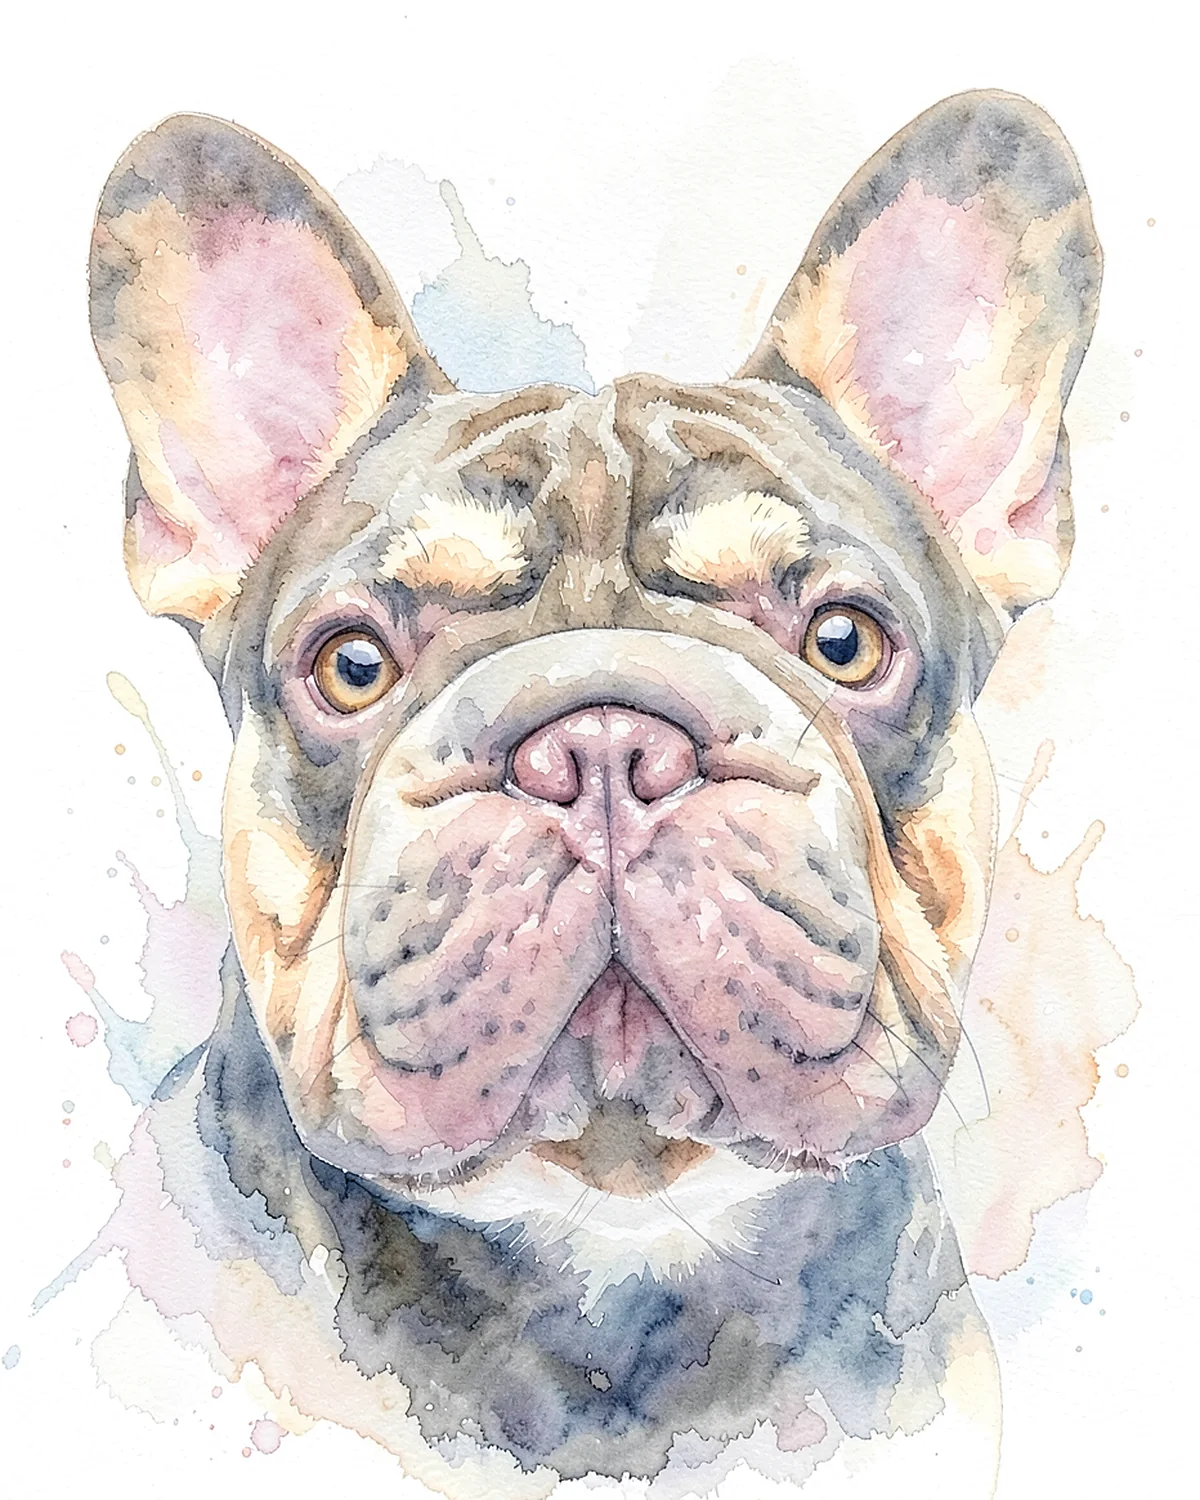
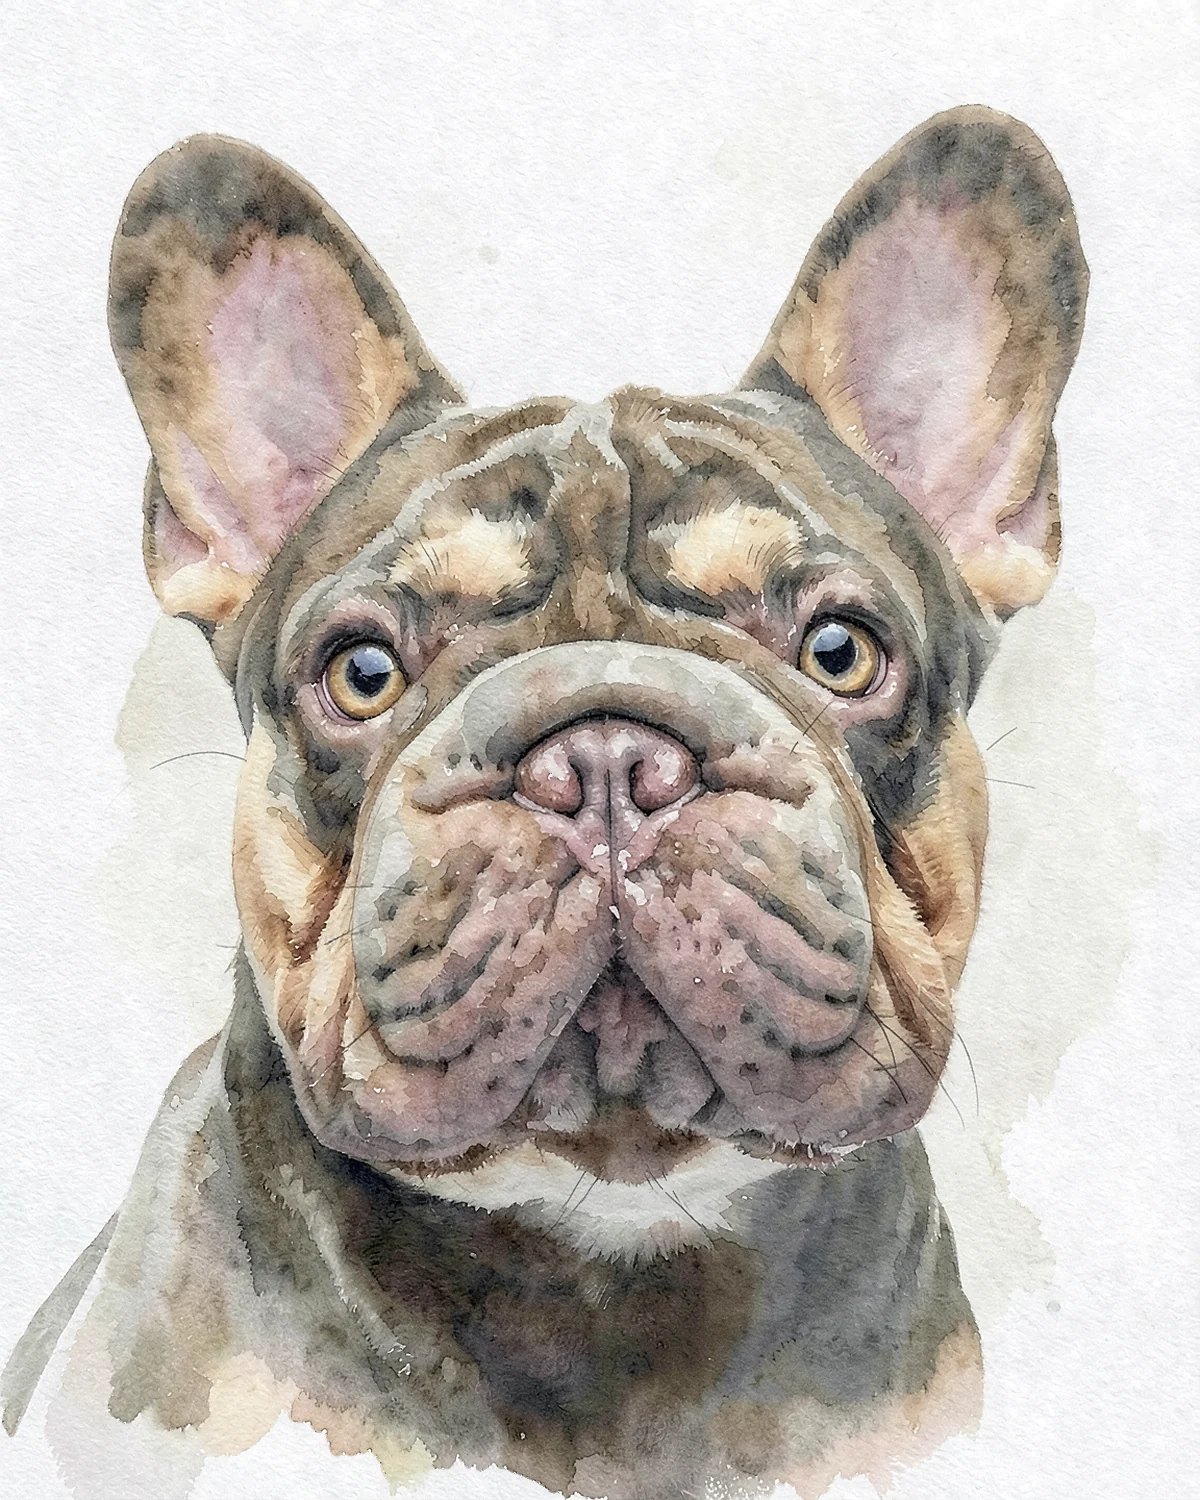
Samples: before/after pairs and gallery 2-6 in the house style; storybook retake; OG image from the new royal; CREDITS
holiday.webp now uses cavalier.jpg and gallery-1.webp golden-retriever.jpg (same dog as pair-1 and the
dog-and-portrait campaign shot); style/dog labels in samples.ts are unchanged.

Claude-Session: https://claude.ai/code/session_01Q1G9K9iUNWePoTgYQBX8an

diff --git a/web/public/samples/CREDITS.md b/web/public/samples/CREDITS.md
@@ -2,30 +2,33 @@
 
 The images in this folder are example portraits made by our studio to show each style. They are not
 customer orders and not customer reviews. Each one is an AI render made from a real dog photo
-(listed below), then reviewed by a person before it was published (likeness, anatomy, no garbled
+(listed below), then reviewed by a person at 100% before it was published (likeness, anatomy, no garbled
 text or jewellery, no watermarks).
 
-## How they were made (current pipeline, Oct 14)
+## How they were made (current set, Oct 18: house-style redesign)
 
 - **Model:** FLUX.2 [klein] 4B (`black-forest-labs/FLUX.2-klein-4B`), run locally on CPU with Hugging Face
-  `diffusers` (`Flux2KleinPipeline`, bf16), reference-image editing: the real photo is passed as the
-  reference image and the style prompt asks for a portrait of *this exact dog*. 4 steps, guidance 1.0,
-  rendered natively at 960×1200 (reference photo at 640×800).
+  `diffusers` (`Flux2KleinPipeline`, bf16). Reference-image editing: the real photo is passed as the
+  reference image, and the style prompt asks for a portrait of *this exact dog*. 4 steps, guidance 1.0,
+  rendered natively at 1152×1440 (reference photo at 640×800).
   - License: **Apache-2.0** (https://huggingface.co/black-forest-labs/FLUX.2-klein-4B). Commercial use of
-    the model and of its outputs is permitted. The bundled VAE (`vae/` in the same repository) is under
-    the same Apache-2.0 license.
-- **Text encoder:** Qwen3-4B (`Qwen/Qwen3-4B`, as bundled in the FLUX.2-klein-4B repository), **Apache-2.0**
-  (https://huggingface.co/Qwen/Qwen3-4B).
-- **Retouching:** on royal.webp and pair-1-after.webp the medallion was re-rendered with the same model's inpainting pipeline
-  (`Flux2KleinInpaintPipeline`, masked to the pendant only) to replace engraved pseudo-lettering with a plain gold pendant. On oil-classic.webp a faint painted pseudo-signature in the lower-left corner was removed by cloning
-  the adjacent background (we never present these as signed or hand-painted).
-- **Finishing:** cropped 1.5% at the edges (removes the faint painted canvas edge), Lanczos resize to
-  1200×1500, light unsharp mask, WebP quality 84 (Pillow).
-- Style prompts are adapted from `STYLES[].prompt` in `web/src/lib/catalog.ts`.
+    the model and of its outputs is permitted. The bundled VAE is under the same license.
+- **Text encoder:** Qwen3-4B (`Qwen/Qwen3-4B`, as bundled in the FLUX.2-klein-4B repository), **Apache-2.0**.
+- **Prompts:** one shared house style (museum surfaces, natural canine anatomy, one soft light, one restrained
+  palette, no text). The exact prompt used for each style is in `docs/art-direction.md`.
+- **Retouching:**
+  - mid-century.webp: the open mouth was re-rendered closed with the same model's inpainting pipeline
+    (`Flux2KleinInpaintPipeline`, masked to the muzzle only).
+  - pop-art.webp: a stray dark shape below the jaw (a malformed tongue) was painted out with the plain
+    background ink.
+  - charcoal.webp: the reference photo was first scaled down and seated on its own extended backdrop, to leave
+    headroom.
+- **Finishing:** up to 1.2% edge trim (removes faint painted canvas edges), centre crop to 4:5, Lanczos resize to
+  1200×1500, light unsharp mask. Then a very light surface pass: linen weave for oils, paper tooth for paper media.
+  Tiny isolated specks are removed, and near-white trim on The Royal is warmed to ivory. WebP quality 80–86
+  (Pillow), each file under 400 KB.
 
-All files in this folder now come from this pipeline (the earlier DreamShaper 8 / SD 1.5 set was fully
-replaced on Oct 14). For gallery-4.webp, fine-line.webp and astronaut.webp the reference photo was first
-scaled down and seated on its own extended backdrop, to leave headroom in the composition.
+We never present these as hand-painted or signed. "Made by our AI artist, finished and checked by our team."
 
 ## Source photos
 
@@ -33,33 +36,37 @@ All source photos are from Unsplash and used under the [Unsplash License](https:
 which allows free commercial use and modification without attribution. We credit the photographers
 anyway. None are Unsplash+ photos. Local copies (4:5 crops) live in `web/scripts/sample-sources/`.
 
-| Sample file(s) | Style | Dog | Source photo | Photographer | Unsplash page | Pipeline |
-|---|---|---|---|---|---|---|
-| royal.webp | The Royal | Cavalier King Charles Spaniel | cavalier-2.jpg | Tracy Anderson | https://unsplash.com/photos/OktYfwY5ZQI | FLUX.2 klein |
-| pair-3-before.webp (photo), pair-3-after.webp | The Admiral | Beagle | beagle.jpg | Nathanaël Desmeules | https://unsplash.com/photos/527_3nFNAPo | FLUX.2 klein |
-| admiral.webp | The Admiral | Labrador Retriever | labrador-2.jpg | Not identified yet (free Unsplash CDN image) | https://images.unsplash.com/photo-1761797732084-eed42f058516 | FLUX.2 klein |
-| oil-classic.webp | Old Master | Border Collie | border-collie.jpg | Pauline Loroy | https://unsplash.com/photos/XH8A0bvQ7iE | FLUX.2 klein |
-| pair-2-before.webp (photo), pair-2-after.webp | Watercolor | French Bulldog | french-bulldog.jpg | Eric Tan | https://unsplash.com/photos/p6qtH9kqjt8 | FLUX.2 klein |
-| watercolor.webp | Watercolor | Beagle (tricolour hound) | beagle-2.jpg | Jabez Rodarte | https://unsplash.com/photos/rxFw2zAaUi0 | FLUX.2 klein |
-| gallery-2.webp | Pop Art | French Bulldog | french-bulldog-sitting.jpg | Eric Tan | https://unsplash.com/photos/WqveMpe3QTA | FLUX.2 klein |
-| fine-line.webp | Fine Line | French Bulldog | french-bulldog.jpg | Eric Tan | https://unsplash.com/photos/p6qtH9kqjt8 | FLUX.2 klein |
-| pop-art.webp | Pop Art | Dachshund | dachshund.jpg | Alexandre Daoust | https://unsplash.com/photos/DoMqElrLS5M | FLUX.2 klein |
-| storybook.webp | Storybook | Poodle / Doodle puppy | doodle-puppy.jpg | Erick Lee Hodge | https://unsplash.com/photos/U8pgck1dgtQ | FLUX.2 klein |
-| botanical.webp | Botanical | Cavapoo | cavapoo.jpg | Leiada Krözjhen | https://unsplash.com/photos/7lahRWgD2qM | FLUX.2 klein |
-| astronaut.webp | Space Cadet | Siberian Husky | husky.jpg | Elin Birgisdottir | https://unsplash.com/photos/cwwwHfTytSI | FLUX.2 klein |
-| gallery-4.webp | The Admiral | Siberian Husky | husky.jpg | Elin Birgisdottir | https://unsplash.com/photos/cwwwHfTytSI | FLUX.2 klein |
-| charcoal.webp | Charcoal Study | Labrador Retriever | labrador.jpg | Aniket Salve | https://unsplash.com/photos/IQ3FjY2Gdho | FLUX.2 klein |
-| mid-century.webp | Mid-Century | Pembroke Welsh Corgi | corgi.jpg | Ivana La | https://unsplash.com/photos/tycZhR54Ddk | FLUX.2 klein |
-| holiday.webp | Holiday Cozy | Golden Retriever | golden-retriever-2.jpg | Victor G | https://unsplash.com/photos/x5oPmHmY3kQ | FLUX.2 klein |
-| pair-1-before.webp (photo), pair-1-after.webp | The Royal | Golden Retriever | golden-retriever.jpg | Faber Leonardo | https://unsplash.com/photos/ktujYJX35-E | FLUX.2 klein |
-| gallery-1.webp | Old Master | Golden Retriever | golden-retriever-2.jpg | Victor G | https://unsplash.com/photos/x5oPmHmY3kQ | FLUX.2 klein |
-| gallery-3.webp | Watercolor | Cavapoo | cavapoo.jpg | Leiada Krözjhen | https://unsplash.com/photos/7lahRWgD2qM | FLUX.2 klein |
-| gallery-5.webp | Storybook | Cavalier King Charles Spaniel | cavalier-3.jpg | Courtney Mihaka | https://unsplash.com/photos/8rdX9FraXug | FLUX.2 klein |
-| gallery-6.webp | Charcoal Study | Beagle (tricolour hound) | beagle-2.jpg | Jabez Rodarte | https://unsplash.com/photos/rxFw2zAaUi0 | FLUX.2 klein |
+| Sample file(s) | Style | Dog | Source photo | Photographer | Unsplash page |
+|---|---|---|---|---|---|
+| royal.webp | The Royal | Cavalier King Charles Spaniel | cavalier-2.jpg | Tracy Anderson | https://unsplash.com/photos/OktYfwY5ZQI |
+| pair-1-before.webp (photo), pair-1-after.webp | The Royal | Golden Retriever | golden-retriever.jpg | Faber Leonardo | https://unsplash.com/photos/ktujYJX35-E |
+| admiral.webp | The Admiral | Labrador Retriever | labrador-2.jpg | Not identified yet (free Unsplash CDN image) | https://images.unsplash.com/photo-1761797732084-eed42f058516 |
+| pair-3-before.webp (photo), pair-3-after.webp | The Admiral | Beagle | beagle.jpg | Nathanaël Desmeules | https://unsplash.com/photos/527_3nFNAPo |
+| gallery-4.webp | The Admiral | Siberian Husky | husky.jpg | Elin Birgisdottir | https://unsplash.com/photos/cwwwHfTytSI |
+| oil-classic.webp | Old Master | Border Collie | border-collie.jpg | Pauline Loroy | https://unsplash.com/photos/XH8A0bvQ7iE |
+| gallery-1.webp | Old Master | Golden Retriever | golden-retriever.jpg | Faber Leonardo | https://unsplash.com/photos/ktujYJX35-E |
+| watercolor.webp | Watercolor | Beagle (tricolour hound) | beagle-2.jpg | Jabez Rodarte | https://unsplash.com/photos/rxFw2zAaUi0 |
+| pair-2-before.webp (photo), pair-2-after.webp | Watercolor | French Bulldog | french-bulldog.jpg | Eric Tan | https://unsplash.com/photos/p6qtH9kqjt8 |
+| gallery-3.webp | Watercolor | Cavapoo | cavapoo.jpg | Leiada Krözjhen | https://unsplash.com/photos/7lahRWgD2qM |
+| fine-line.webp | Fine Line | French Bulldog | french-bulldog.jpg | Eric Tan | https://unsplash.com/photos/p6qtH9kqjt8 |
+| pop-art.webp | Pop Art | Dachshund | dachshund.jpg | Alexandre Daoust | https://unsplash.com/photos/DoMqElrLS5M |
+| gallery-2.webp | Pop Art | French Bulldog | french-bulldog-sitting.jpg | Eric Tan | https://unsplash.com/photos/WqveMpe3QTA |
+| storybook.webp | Storybook | Poodle / Doodle puppy | doodle-puppy.jpg | Erick Lee Hodge | https://unsplash.com/photos/U8pgck1dgtQ |
+| gallery-5.webp | Storybook | Cavalier King Charles Spaniel | cavalier-3.jpg | Courtney Mihaka | https://unsplash.com/photos/8rdX9FraXug |
+| botanical.webp | Botanical | Cavapoo | cavapoo.jpg | Leiada Krözjhen | https://unsplash.com/photos/7lahRWgD2qM |
+| astronaut.webp | Space Cadet | Siberian Husky | husky.jpg | Elin Birgisdottir | https://unsplash.com/photos/cwwwHfTytSI |
+| charcoal.webp | Charcoal Study | Labrador Retriever | labrador.jpg | Aniket Salve | https://unsplash.com/photos/IQ3FjY2Gdho |
+| gallery-6.webp | Charcoal Study | Beagle (tricolour hound) | beagle-2.jpg | Jabez Rodarte | https://unsplash.com/photos/rxFw2zAaUi0 |
+| mid-century.webp | Mid-Century | Pembroke Welsh Corgi | corgi.jpg | Ivana La | https://unsplash.com/photos/tycZhR54Ddk |
+| holiday.webp | Holiday Cozy | Cavalier King Charles Spaniel | cavalier.jpg | Izabelly Marques | https://unsplash.com/photos/-d-q58LA1ds |
+
+Changes from the Oct 14 set: holiday.webp now uses cavalier.jpg (was golden-retriever-2.jpg). gallery-1.webp
+now uses golden-retriever.jpg (was golden-retriever-2.jpg), so it is the same dog as pair-1 and as the dog in
+`campaign/dog-and-portrait.webp`. The style and dog labels in `web/src/lib/samples.ts` are unchanged.
 
 ## Site-wide images made from these samples
 
-- `web/public/og-default.jpg` (1200×630): royal.webp on a white page with the "PUP PRINTS" wordmark and the
-  line "Your dog, immortalized." set in Bodoni Moda, with a Hanken Grotesk label (both SIL Open Font
-  License 1.1, Google Fonts), composed with Pillow.
+- `web/public/campaign/`: product mockups that composite these exact files into generated interiors (see
+  `web/public/campaign/CREDITS.md`).
+- `web/public/og-default.jpg` (1200×630): the current royal.webp on a white page with the "PUP PRINTS" wordmark and the line "Your dog, immortalized." set in Bodoni Moda, with a Hanken Grotesk label (both SIL Open Font License 1.1), composed with Pillow (regenerated Oct 18).
 - `web/public/logo.png`: brand mark only, no photo.
